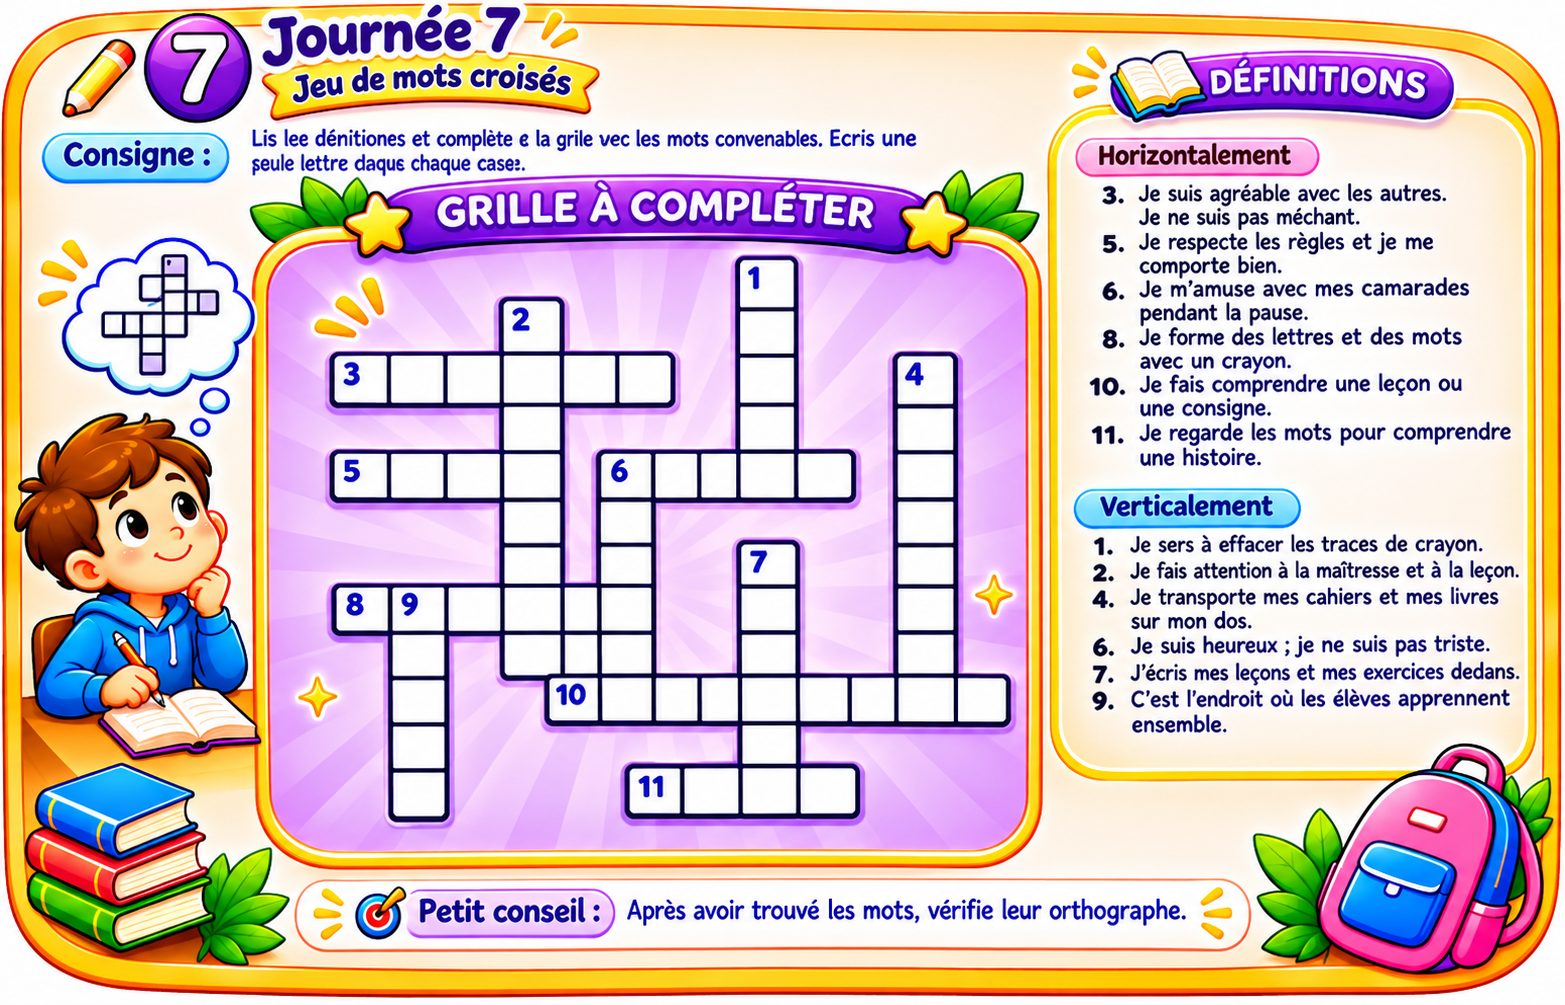
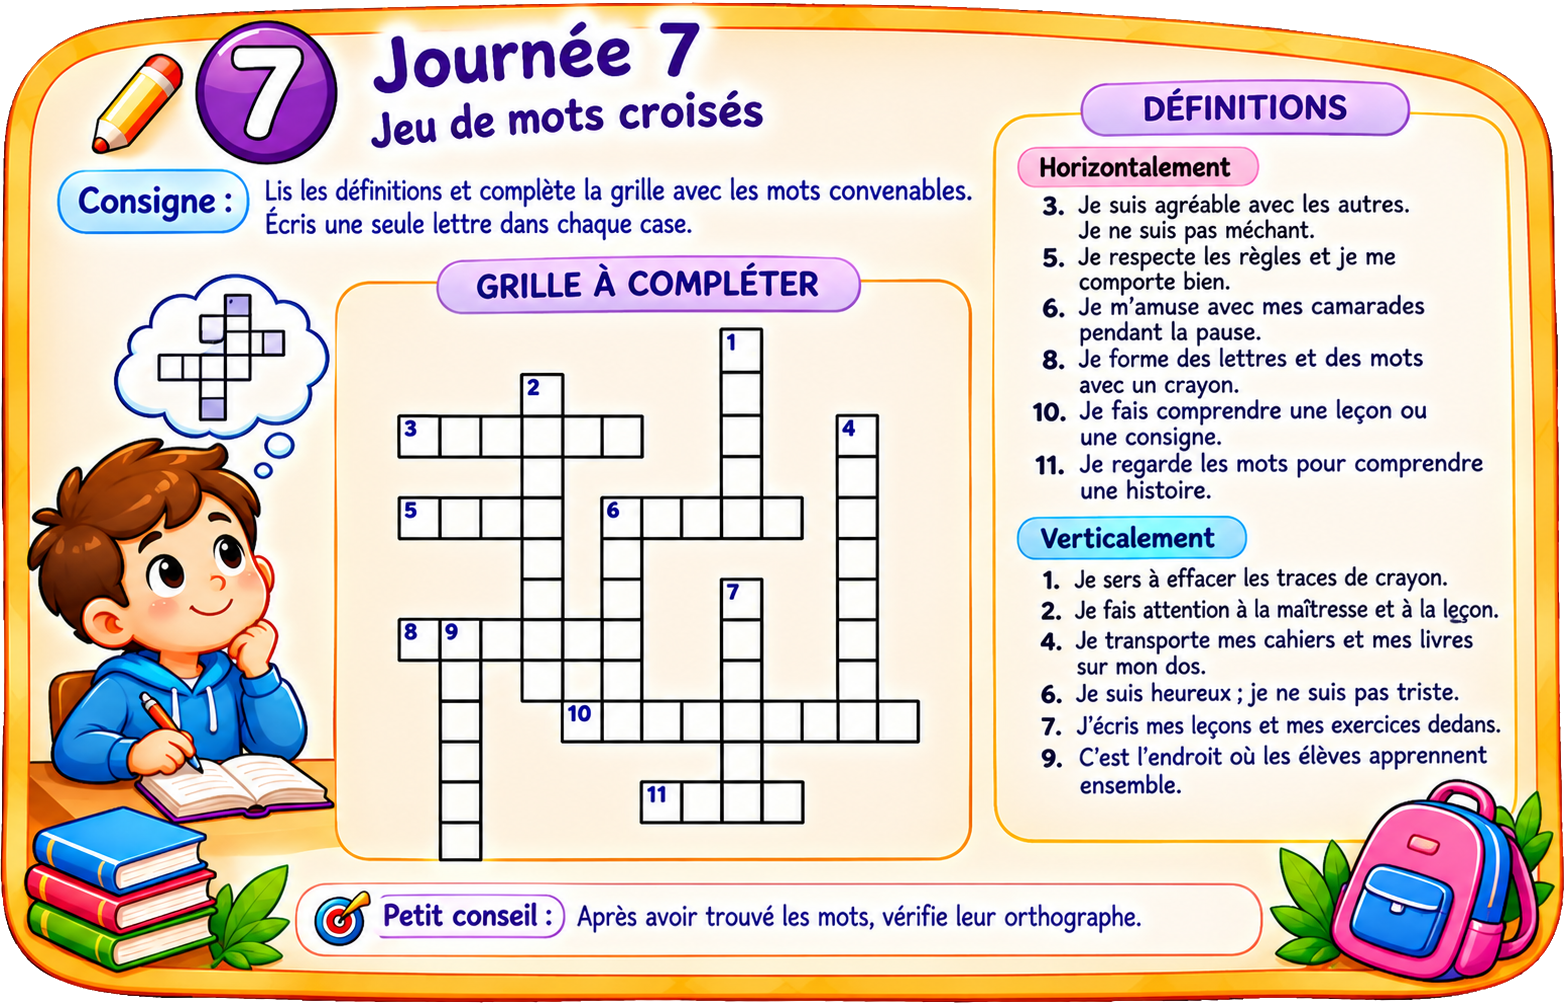
fix(journey-7): update crossword cells for new 1.png, widen level 7 commencer hitbox, and restore spliced script block

diff --git a/index.html b/index.html
@@ -4140,10 +4140,10 @@ ${criteriaSchema}
           titleEl.style.display = 'none';
           descEl.style.display = 'none';
           // Button bounds derived exactly from scan (Commencer button)
-          btn.style.left = levelId === 10 ? '20%' : (levelId === 8 ? '31.25%' : (levelId === 7 ? '32.7%' : '33%'));
-          btn.style.top = levelId === 10 ? '73%' : (levelId === 8 ? '80.2%' : (levelId === 7 ? '79.3%' : ((levelId === 5 || levelId === 6) ? '79%' : '77.3%')));
-          btn.style.width = levelId === 10 ? '60%' : (levelId === 8 ? '40.6%' : (levelId === 7 ? '30.2%' : '38%'));
-          btn.style.height = levelId === 10 ? '18%' : (levelId === 8 ? '12.1%' : (levelId === 7 ? '8.1%' : '14%'));
+          btn.style.left = levelId === 10 ? '20%' : (levelId === 8 ? '31.25%' : (levelId === 7 ? '31%' : '33%'));
+          btn.style.top = levelId === 10 ? '73%' : (levelId === 8 ? '80.2%' : (levelId === 7 ? '77.5%' : ((levelId === 5 || levelId === 6) ? '79%' : '77.3%')));
+          btn.style.width = levelId === 10 ? '60%' : (levelId === 8 ? '40.6%' : (levelId === 7 ? '41.5%' : '38%'));
+          btn.style.height = levelId === 10 ? '18%' : (levelId === 8 ? '12.1%' : (levelId === 7 ? '14%' : '14%'));
           btn.style.bottom = 'auto'; // override default bottom
         } else {
           imgEl.src = 'exercice pop up.png';
@@ -8130,7 +8130,7 @@ ${criteriaSchema}
           input.style.textTransform = 'uppercase';
           input.style.fontFamily = "'Nunito', 'Quicksand', sans-serif";
           input.style.fontWeight = '900';
-          input.style.fontSize = 'calc(var(--img-width) * 0.017)';
+          input.style.fontSize = 'calc(var(--img-width) * 0.015)';
           input.style.lineHeight = '1';
           input.style.padding = cell.n ? '20% 0 0 0' : '0';
           input.style.margin = '0';
@@ -8359,86 +8359,85 @@ ${criteriaSchema}
           {
             src: 'journe 7/1.png',
             type: 'j7-crossword',
-            blockedCell: { l: 36.1, t: 63.18, w: 2.04, h: 3.78 },
             cells: [
-              { r: 0, c: 8, a: 'G', l: 47.28, t: 25.97, w: 3.39, h: 4.58, n: '1' },
-              { r: 1, c: 3, a: 'A', l: 32.2, t: 30.05, w: 3.51, h: 4.88, n: '2' },
-              { r: 1, c: 8, a: 'O', l: 47.35, t: 31.04, w: 3.32, h: 4.08 },
-              { r: 2, c: 0, a: 'G', l: 21.41, t: 35.42, w: 3.26, h: 4.58, n: '3' },
-              { r: 2, c: 1, a: 'E', l: 24.98, t: 35.42, w: 3.32, h: 4.58 },
-              { r: 2, c: 2, a: 'N', l: 28.63, t: 35.42, w: 3.26, h: 4.58 },
-              { r: 2, c: 3, a: 'T', l: 32.2, t: 35.42, w: 3.51, h: 4.58 },
-              { r: 2, c: 4, a: 'I', l: 36.1, t: 35.42, w: 3.19, h: 4.58 },
-              { r: 2, c: 5, a: 'L', l: 39.62, t: 35.42, w: 3.19, h: 4.58 },
-              { r: 2, c: 8, a: 'M', l: 47.35, t: 35.62, w: 3.32, h: 4.38 },
-              { r: 2, c: 11, a: 'C', l: 57.38, t: 35.52, w: 3.51, h: 4.68, n: '4' },
-              { r: 3, c: 3, a: 'T', l: 32.2, t: 40.5, w: 3.51, h: 4.28 },
-              { r: 3, c: 8, a: 'M', l: 47.35, t: 40.5, w: 3.32, h: 4.18 },
-              { r: 3, c: 11, a: 'A', l: 57.38, t: 40.7, w: 3.51, h: 4.08 },
-              { r: 4, c: 0, a: 'S', l: 21.41, t: 45.17, w: 3.26, h: 4.28, n: '5' },
-              { r: 4, c: 1, a: 'A', l: 25.05, t: 45.17, w: 3.26, h: 4.28 },
-              { r: 4, c: 2, a: 'G', l: 28.63, t: 45.17, w: 3.26, h: 4.28 },
-              { r: 4, c: 3, a: 'E', l: 32.27, t: 45.17, w: 3.45, h: 4.28 },
-              { r: 4, c: 5, a: 'J', l: 38.47, t: 45.17, w: 3.13, h: 4.28, n: '6' },
-              { r: 4, c: 6, a: 'O', l: 41.92, t: 45.17, w: 2.62, h: 4.28 },
-              { r: 4, c: 7, a: 'U', l: 44.86, t: 45.17, w: 2.17, h: 4.28 },
-              { r: 4, c: 8, a: 'E', l: 47.35, t: 45.17, w: 3.39, h: 4.28 },
-              { r: 4, c: 9, a: 'R', l: 51.05, t: 45.17, w: 3.32, h: 4.28 },
-              { r: 4, c: 11, a: 'R', l: 57.38, t: 45.27, w: 3.51, h: 4.18 },
-              { r: 5, c: 3, a: 'N', l: 32.27, t: 50.05, w: 3.51, h: 3.98 },
-              { r: 5, c: 5, a: 'O', l: 38.4, t: 49.95, w: 3.19, h: 3.98 },
-              { r: 5, c: 11, a: 'T', l: 57.44, t: 49.95, w: 3.45, h: 3.98 },
-              { r: 6, c: 3, a: 'T', l: 32.27, t: 54.53, w: 3.51, h: 3.48 },
-              { r: 6, c: 5, a: 'Y', l: 38.47, t: 54.43, w: 3.13, h: 3.58 },
-              { r: 6, c: 8, a: 'C', l: 47.41, t: 54.23, w: 3.39, h: 3.88, n: '7' },
-              { r: 6, c: 11, a: 'A', l: 57.44, t: 54.53, w: 3.45, h: 3.58 },
-              { r: 7, c: 0, a: 'E', l: 21.53, t: 58.51, w: 3.19, h: 4.18, n: '8' },
-              { r: 7, c: 1, a: 'C', l: 25.11, t: 58.51, w: 3.26, h: 4.18, n: '9' },
-              { r: 7, c: 2, a: 'R', l: 28.69, t: 58.51, w: 3.26, h: 4.18 },
-              { r: 7, c: 3, a: 'I', l: 32.27, t: 58.51, w: 3.51, h: 4.18 },
-              { r: 7, c: 4, a: 'R', l: 36.1, t: 58.51, w: 2.04, h: 4.18 },
-              { r: 7, c: 5, a: 'E', l: 38.47, t: 58.51, w: 3.13, h: 4.18 },
-              { r: 7, c: 8, a: 'A', l: 47.41, t: 58.61, w: 3.39, h: 4.08 },
-              { r: 7, c: 11, a: 'B', l: 57.44, t: 58.61, w: 3.45, h: 4.08 },
-              { r: 8, c: 1, a: 'L', l: 25.11, t: 63.18, w: 3.26, h: 3.98 },
-              { r: 8, c: 3, a: 'F', l: 32.27, t: 63.18, w: 3.51, h: 3.98 },
-              { r: 8, c: 5, a: 'U', l: 38.47, t: 63.18, w: 3.13, h: 3.78 },
-              { r: 8, c: 8, a: 'H', l: 47.41, t: 63.18, w: 3.39, h: 3.78 },
-              { r: 8, c: 11, a: 'L', l: 57.44, t: 63.18, w: 3.45, h: 3.78 },
-              { r: 9, c: 1, a: 'A', l: 25.11, t: 67.76, w: 3.26, h: 4.08 },
-              { r: 9, c: 4, a: 'E', l: 35.14, t: 67.56, w: 3, h: 4.08, n: '10' },
-              { r: 9, c: 5, a: 'X', l: 38.47, t: 67.56, w: 3.13, h: 4.08 },
-              { r: 9, c: 6, a: 'P', l: 41.98, t: 67.46, w: 2.56, h: 4.18 },
-              { r: 9, c: 7, a: 'L', l: 44.86, t: 67.46, w: 2.3, h: 4.18 },
-              { r: 9, c: 8, a: 'I', l: 47.48, t: 67.46, w: 3.32, h: 4.28 },
-              { r: 9, c: 9, a: 'Q', l: 51.12, t: 67.46, w: 3, h: 4.28 },
-              { r: 9, c: 10, a: 'U', l: 54.44, t: 67.46, w: 2.68, h: 4.28 },
-              { r: 9, c: 11, a: 'E', l: 57.44, t: 67.46, w: 3.45, h: 4.28 },
-              { r: 9, c: 12, a: 'R', l: 61.21, t: 67.56, w: 3, h: 4.18 },
-              { r: 10, c: 1, a: 'S', l: 25.18, t: 72.34, w: 3.19, h: 4.08 },
-              { r: 10, c: 8, a: 'E', l: 47.48, t: 72.24, w: 3.32, h: 3.68 },
-              { r: 11, c: 1, a: 'S', l: 25.18, t: 76.92, w: 3.19, h: 4.28 },
-              { r: 11, c: 6, a: 'L', l: 40.26, t: 76.52, w: 3.13, h: 4.38, n: '11' },
-              { r: 11, c: 7, a: 'I', l: 43.77, t: 76.52, w: 3.39, h: 4.38 },
-              { r: 11, c: 8, a: 'R', l: 47.48, t: 76.52, w: 3.39, h: 4.38 },
-              { r: 11, c: 9, a: 'E', l: 51.18, t: 76.52, w: 3.45, h: 4.38 },
-              { r: 12, c: 1, a: 'E', l: 25.0, t: 81.2, w: 3.55, h: 3.9, drawBox: true }
+              { r: 0, c: 8, a: 'G', l: 46.1, t: 32.7, w: 2.6, h: 3.9, n: '1' },
+              { r: 1, c: 3, a: 'A', l: 33.5, t: 36.8, w: 2.5, h: 4.5, n: '2' },
+              { r: 1, c: 8, a: 'O', l: 46.1, t: 37.2, w: 2.6, h: 4.5 },
+              { r: 2, c: 0, a: 'G', l: 25.6, t: 41.1, w: 2.5, h: 4.4, n: '3' },
+              { r: 2, c: 1, a: 'E', l: 28.1, t: 41.4, w: 2.6, h: 3.8 },
+              { r: 2, c: 2, a: 'N', l: 31, t: 41.4, w: 2.3, h: 4 },
+              { r: 2, c: 3, a: 'T', l: 33.5, t: 41.7, w: 2.3, h: 3.5 },
+              { r: 2, c: 4, a: 'I', l: 36.3, t: 41.6, w: 1.9, h: 3.6 },
+              { r: 2, c: 5, a: 'L', l: 38.5, t: 41.6, w: 2.4, h: 3.6 },
+              { r: 2, c: 8, a: 'M', l: 46.1, t: 41.9, w: 2.5, h: 3.2 },
+              { r: 2, c: 11, a: 'C', l: 53.4, t: 41.7, w: 2.6, h: 3.2, n: '4' },
+              { r: 3, c: 3, a: 'T', l: 33.5, t: 45.6, w: 2.1, h: 3.7 },
+              { r: 3, c: 8, a: 'M', l: 46.1, t: 45.6, w: 2.5, h: 3.9 },
+              { r: 3, c: 11, a: 'A', l: 53.5, t: 45.2, w: 2.5, h: 4 },
+              { r: 4, c: 0, a: 'S', l: 25.6, t: 49.9, w: 2.3, h: 3.3, n: '5' },
+              { r: 4, c: 1, a: 'A', l: 28.3, t: 49.4, w: 2.3, h: 3.9 },
+              { r: 4, c: 2, a: 'G', l: 30.8, t: 49.7, w: 2.6, h: 3.7 },
+              { r: 4, c: 3, a: 'E', l: 33.6, t: 49.5, w: 2.4, h: 4.3 },
+              { r: 4, c: 5, a: 'J', l: 38.6, t: 49.3, w: 2.3, h: 4.6, n: '6' },
+              { r: 4, c: 6, a: 'O', l: 41.2, t: 49.5, w: 2.6, h: 4.3 },
+              { r: 4, c: 7, a: 'U', l: 43.8, t: 49.4, w: 2.3, h: 4 },
+              { r: 4, c: 8, a: 'E', l: 46.3, t: 49.6, w: 2.4, h: 3.6 },
+              { r: 4, c: 9, a: 'R', l: 48.9, t: 49.8, w: 2.3, h: 3.4 },
+              { r: 4, c: 11, a: 'R', l: 53.7, t: 49.6, w: 2.4, h: 3.9 },
+              { r: 5, c: 3, a: 'N', l: 33.4, t: 53.7, w: 2.6, h: 3.8 },
+              { r: 5, c: 5, a: 'O', l: 38.6, t: 53.9, w: 2.2, h: 3.6 },
+              { r: 5, c: 11, a: 'T', l: 53.6, t: 53.8, w: 2.4, h: 3.7 },
+              { r: 6, c: 3, a: 'T', l: 33.5, t: 57.6, w: 2.3, h: 3.6 },
+              { r: 6, c: 5, a: 'Y', l: 38.4, t: 57.7, w: 2.5, h: 3.5 },
+              { r: 6, c: 8, a: 'C', l: 46.2, t: 57.7, w: 2.8, h: 4.6, n: '7' },
+              { r: 6, c: 11, a: 'A', l: 53.5, t: 58, w: 2.4, h: 3.6 },
+              { r: 7, c: 0, a: 'E', l: 25.4, t: 61.7, w: 2.6, h: 3.9, n: '8' },
+              { r: 7, c: 1, a: 'C', l: 28.3, t: 61.3, w: 2.3, h: 4.3, n: '9' },
+              { r: 7, c: 2, a: 'R', l: 30.7, t: 61.7, w: 2.6, h: 3.8 },
+              { r: 7, c: 3, a: 'I', l: 33.5, t: 61.9, w: 2.4, h: 3.7 },
+              { r: 7, c: 4, a: 'R', l: 36.1, t: 61.6, w: 2.4, h: 4.1 },
+              { r: 7, c: 5, a: 'E', l: 38.6, t: 61.6, w: 2.2, h: 4.1 },
+              { r: 7, c: 8, a: 'A', l: 46.1, t: 62, w: 2.3, h: 3.8 },
+              { r: 7, c: 11, a: 'B', l: 53.5, t: 62.1, w: 2.3, h: 3.3 },
+              { r: 8, c: 1, a: 'L', l: 28.1, t: 65.7, w: 2.7, h: 4 },
+              { r: 8, c: 3, a: 'F', l: 33.3, t: 65.6, w: 2.4, h: 4.1 },
+              { r: 8, c: 5, a: 'U', l: 38.6, t: 65.6, w: 2.3, h: 4.6 },
+              { r: 8, c: 8, a: 'H', l: 46.2, t: 66, w: 2.4, h: 3.8 },
+              { r: 8, c: 11, a: 'L', l: 53.5, t: 65.6, w: 2.5, h: 4 },
+              { r: 9, c: 1, a: 'A', l: 28.4, t: 70.1, w: 2.3, h: 3.4 },
+              { r: 9, c: 4, a: 'E', l: 35.9, t: 70.3, w: 2.6, h: 3.6, n: '10' },
+              { r: 9, c: 5, a: 'X', l: 38.6, t: 70.1, w: 2.3, h: 3.5 },
+              { r: 9, c: 6, a: 'P', l: 41.1, t: 70.1, w: 2.4, h: 3.4 },
+              { r: 9, c: 7, a: 'L', l: 43.7, t: 69.9, w: 2.4, h: 3.6 },
+              { r: 9, c: 8, a: 'I', l: 46.2, t: 69.5, w: 2.3, h: 3.9 },
+              { r: 9, c: 9, a: 'Q', l: 49.1, t: 69.3, w: 2.2, h: 4.9 },
+              { r: 9, c: 10, a: 'U', l: 51.3, t: 70, w: 2.3, h: 3.8 },
+              { r: 9, c: 11, a: 'E', l: 53.6, t: 69.8, w: 2.5, h: 4 },
+              { r: 9, c: 12, a: 'R', l: 56, t: 69.7, w: 2.4, h: 3.7 },
+              { r: 10, c: 1, a: 'S', l: 28.1, t: 74.2, w: 2.6, h: 3.4 },
+              { r: 10, c: 8, a: 'E', l: 46.2, t: 73.4, w: 2.3, h: 4.4 },
+              { r: 11, c: 1, a: 'S', l: 28, t: 77.9, w: 2.7, h: 3.3 },
+              { r: 11, c: 6, a: 'L', l: 41, t: 78, w: 2.4, h: 3.5, n: '11' },
+              { r: 11, c: 7, a: 'I', l: 43.5, t: 77.6, w: 2.6, h: 4.1 },
+              { r: 11, c: 8, a: 'R', l: 46.2, t: 77.6, w: 2.5, h: 4.4 },
+              { r: 11, c: 9, a: 'E', l: 48.9, t: 77.6, w: 2.4, h: 4.3 },
+              { r: 12, c: 1, a: 'E', l: 28.1, t: 81.9, w: 2.6, h: 3.5 }
             ],
             words: [
-              { id: '3h', num: '3', dir: 'across', clueBox: { l: 68.2, t: 17.8, w: 28.8, h: 4.8 }, cells: [[2,0],[2,1],[2,2],[2,3],[2,4],[2,5]] },
-              { id: '5h', num: '5', dir: 'across', clueBox: { l: 68.2, t: 22.8, w: 28.8, h: 4.8 }, cells: [[4,0],[4,1],[4,2],[4,3]] },
-              { id: '6h', num: '6', dir: 'across', clueBox: { l: 68.2, t: 27.6, w: 28.8, h: 4.8 }, cells: [[4,5],[4,6],[4,7],[4,8],[4,9]] },
-              { id: '8h', num: '8', dir: 'across', clueBox: { l: 68.2, t: 32.4, w: 28.8, h: 4.8 }, cells: [[7,0],[7,1],[7,2],[7,3],[7,4],[7,5]] },
-              { id: '10h', num: '10', dir: 'across', clueBox: { l: 68.2, t: 37.2, w: 28.8, h: 4.8 }, cells: [[9,4],[9,5],[9,6],[9,7],[9,8],[9,9],[9,10],[9,11],[9,12]] },
-              { id: '11h', num: '11', dir: 'across', clueBox: { l: 68.2, t: 42.0, w: 28.8, h: 5.0 }, cells: [[11,6],[11,7],[11,8],[11,9]] },
-              { id: '1v', num: '1', dir: 'down', clueBox: { l: 68.2, t: 52.8, w: 28.8, h: 3.1 }, cells: [[0,8],[1,8],[2,8],[3,8],[4,8]] },
-              { id: '2v', num: '2', dir: 'down', clueBox: { l: 68.2, t: 55.8, w: 28.8, h: 3.1 }, cells: [[1,3],[2,3],[3,3],[4,3],[5,3],[6,3],[7,3],[8,3]] },
-              { id: '4v', num: '4', dir: 'down', clueBox: { l: 68.2, t: 58.9, w: 28.8, h: 4.0 }, cells: [[2,11],[3,11],[4,11],[5,11],[6,11],[7,11],[8,11],[9,11]] },
-              { id: '6v', num: '6', dir: 'down', clueBox: { l: 68.2, t: 63.0, w: 28.8, h: 2.9 }, cells: [[4,5],[5,5],[6,5],[7,5],[8,5],[9,5]] },
-              { id: '7v', num: '7', dir: 'down', clueBox: { l: 68.2, t: 65.9, w: 28.8, h: 2.9 }, cells: [[6,8],[7,8],[8,8],[9,8],[10,8],[11,8]] },
-              { id: '9v', num: '9', dir: 'down', clueBox: { l: 68.2, t: 68.8, w: 28.8, h: 4.8 }, cells: [[7,1],[8,1],[9,1],[10,1],[11,1],[12,1]] }
+              { id: '3h', num: '3', dir: 'across', clueBox: { l: 64.2, t: 18.8, w: 32.0, h: 5.0 }, cells: [[2,0],[2,1],[2,2],[2,3],[2,4],[2,5]] },
+              { id: '5h', num: '5', dir: 'across', clueBox: { l: 64.2, t: 24.0, w: 32.0, h: 5.0 }, cells: [[4,0],[4,1],[4,2],[4,3]] },
+              { id: '6h', num: '6', dir: 'across', clueBox: { l: 64.2, t: 29.2, w: 32.0, h: 4.8 }, cells: [[4,5],[4,6],[4,7],[4,8],[4,9]] },
+              { id: '8h', num: '8', dir: 'across', clueBox: { l: 64.2, t: 34.2, w: 32.0, h: 4.8 }, cells: [[7,0],[7,1],[7,2],[7,3],[7,4],[7,5]] },
+              { id: '10h', num: '10', dir: 'across', clueBox: { l: 64.2, t: 39.2, w: 32.0, h: 4.8 }, cells: [[9,4],[9,5],[9,6],[9,7],[9,8],[9,9],[9,10],[9,11],[9,12]] },
+              { id: '11h', num: '11', dir: 'across', clueBox: { l: 64.2, t: 44.2, w: 32.0, h: 5.2 }, cells: [[11,6],[11,7],[11,8],[11,9]] },
+              { id: '1v', num: '1', dir: 'down', clueBox: { l: 64.2, t: 56.0, w: 32.0, h: 3.0 }, cells: [[0,8],[1,8],[2,8],[3,8],[4,8]] },
+              { id: '2v', num: '2', dir: 'down', clueBox: { l: 64.2, t: 59.2, w: 32.0, h: 3.0 }, cells: [[1,3],[2,3],[3,3],[4,3],[5,3],[6,3],[7,3],[8,3]] },
+              { id: '4v', num: '4', dir: 'down', clueBox: { l: 64.2, t: 62.2, w: 32.0, h: 4.8 }, cells: [[2,11],[3,11],[4,11],[5,11],[6,11],[7,11],[8,11],[9,11]] },
+              { id: '6v', num: '6', dir: 'down', clueBox: { l: 64.2, t: 67.2, w: 32.0, h: 3.0 }, cells: [[4,5],[5,5],[6,5],[7,5],[8,5],[9,5]] },
+              { id: '7v', num: '7', dir: 'down', clueBox: { l: 64.2, t: 70.4, w: 32.0, h: 3.0 }, cells: [[6,8],[7,8],[8,8],[9,8],[10,8],[11,8]] },
+              { id: '9v', num: '9', dir: 'down', clueBox: { l: 64.2, t: 73.4, w: 32.0, h: 4.8 }, cells: [[7,1],[8,1],[9,1],[10,1],[11,1],[12,1]] }
             ],
-            valBtnPos: { left: 50.0, top: 101.8, width: 17.5 },
+            valBtnPos: { left: 50.9, top: 101.3, width: 17.4 },
             navPos: {
               back: { top: '0.5%', left: '-3.8%', width: 'clamp(56px, 6.4vw, 80px)', height: 'clamp(56px, 6.4vw, 80px)' },
               home: { top: '0.5%', right: '-3.8%', width: 'clamp(56px, 6.4vw, 80px)', height: 'clamp(56px, 6.4vw, 80px)' }
